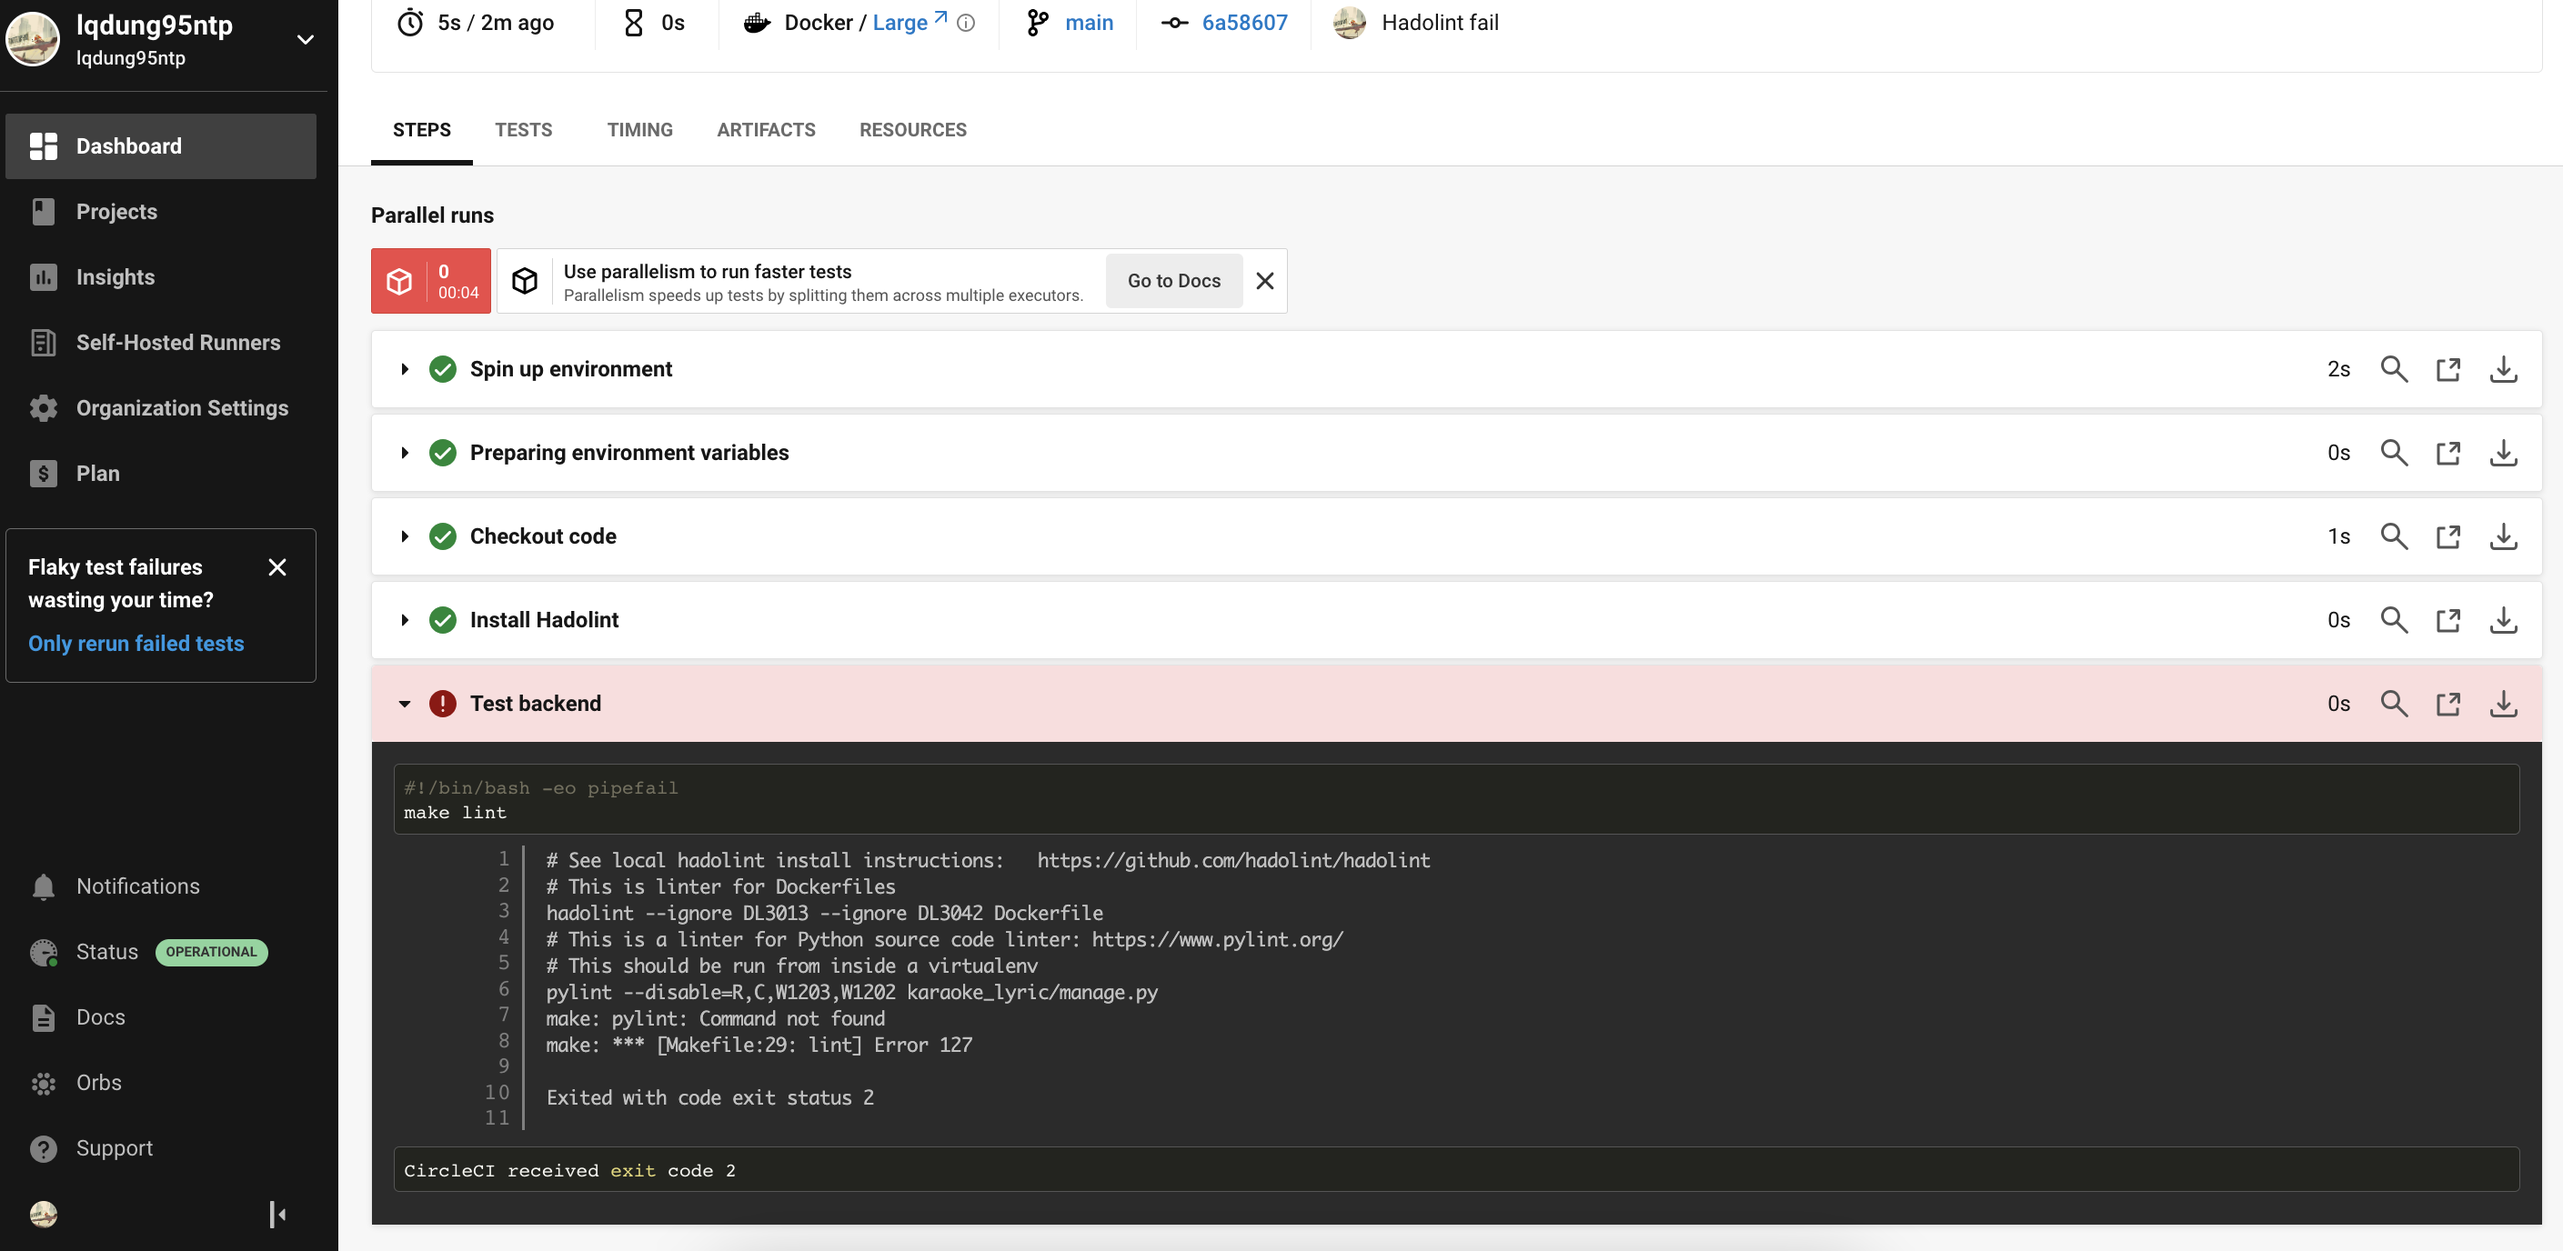
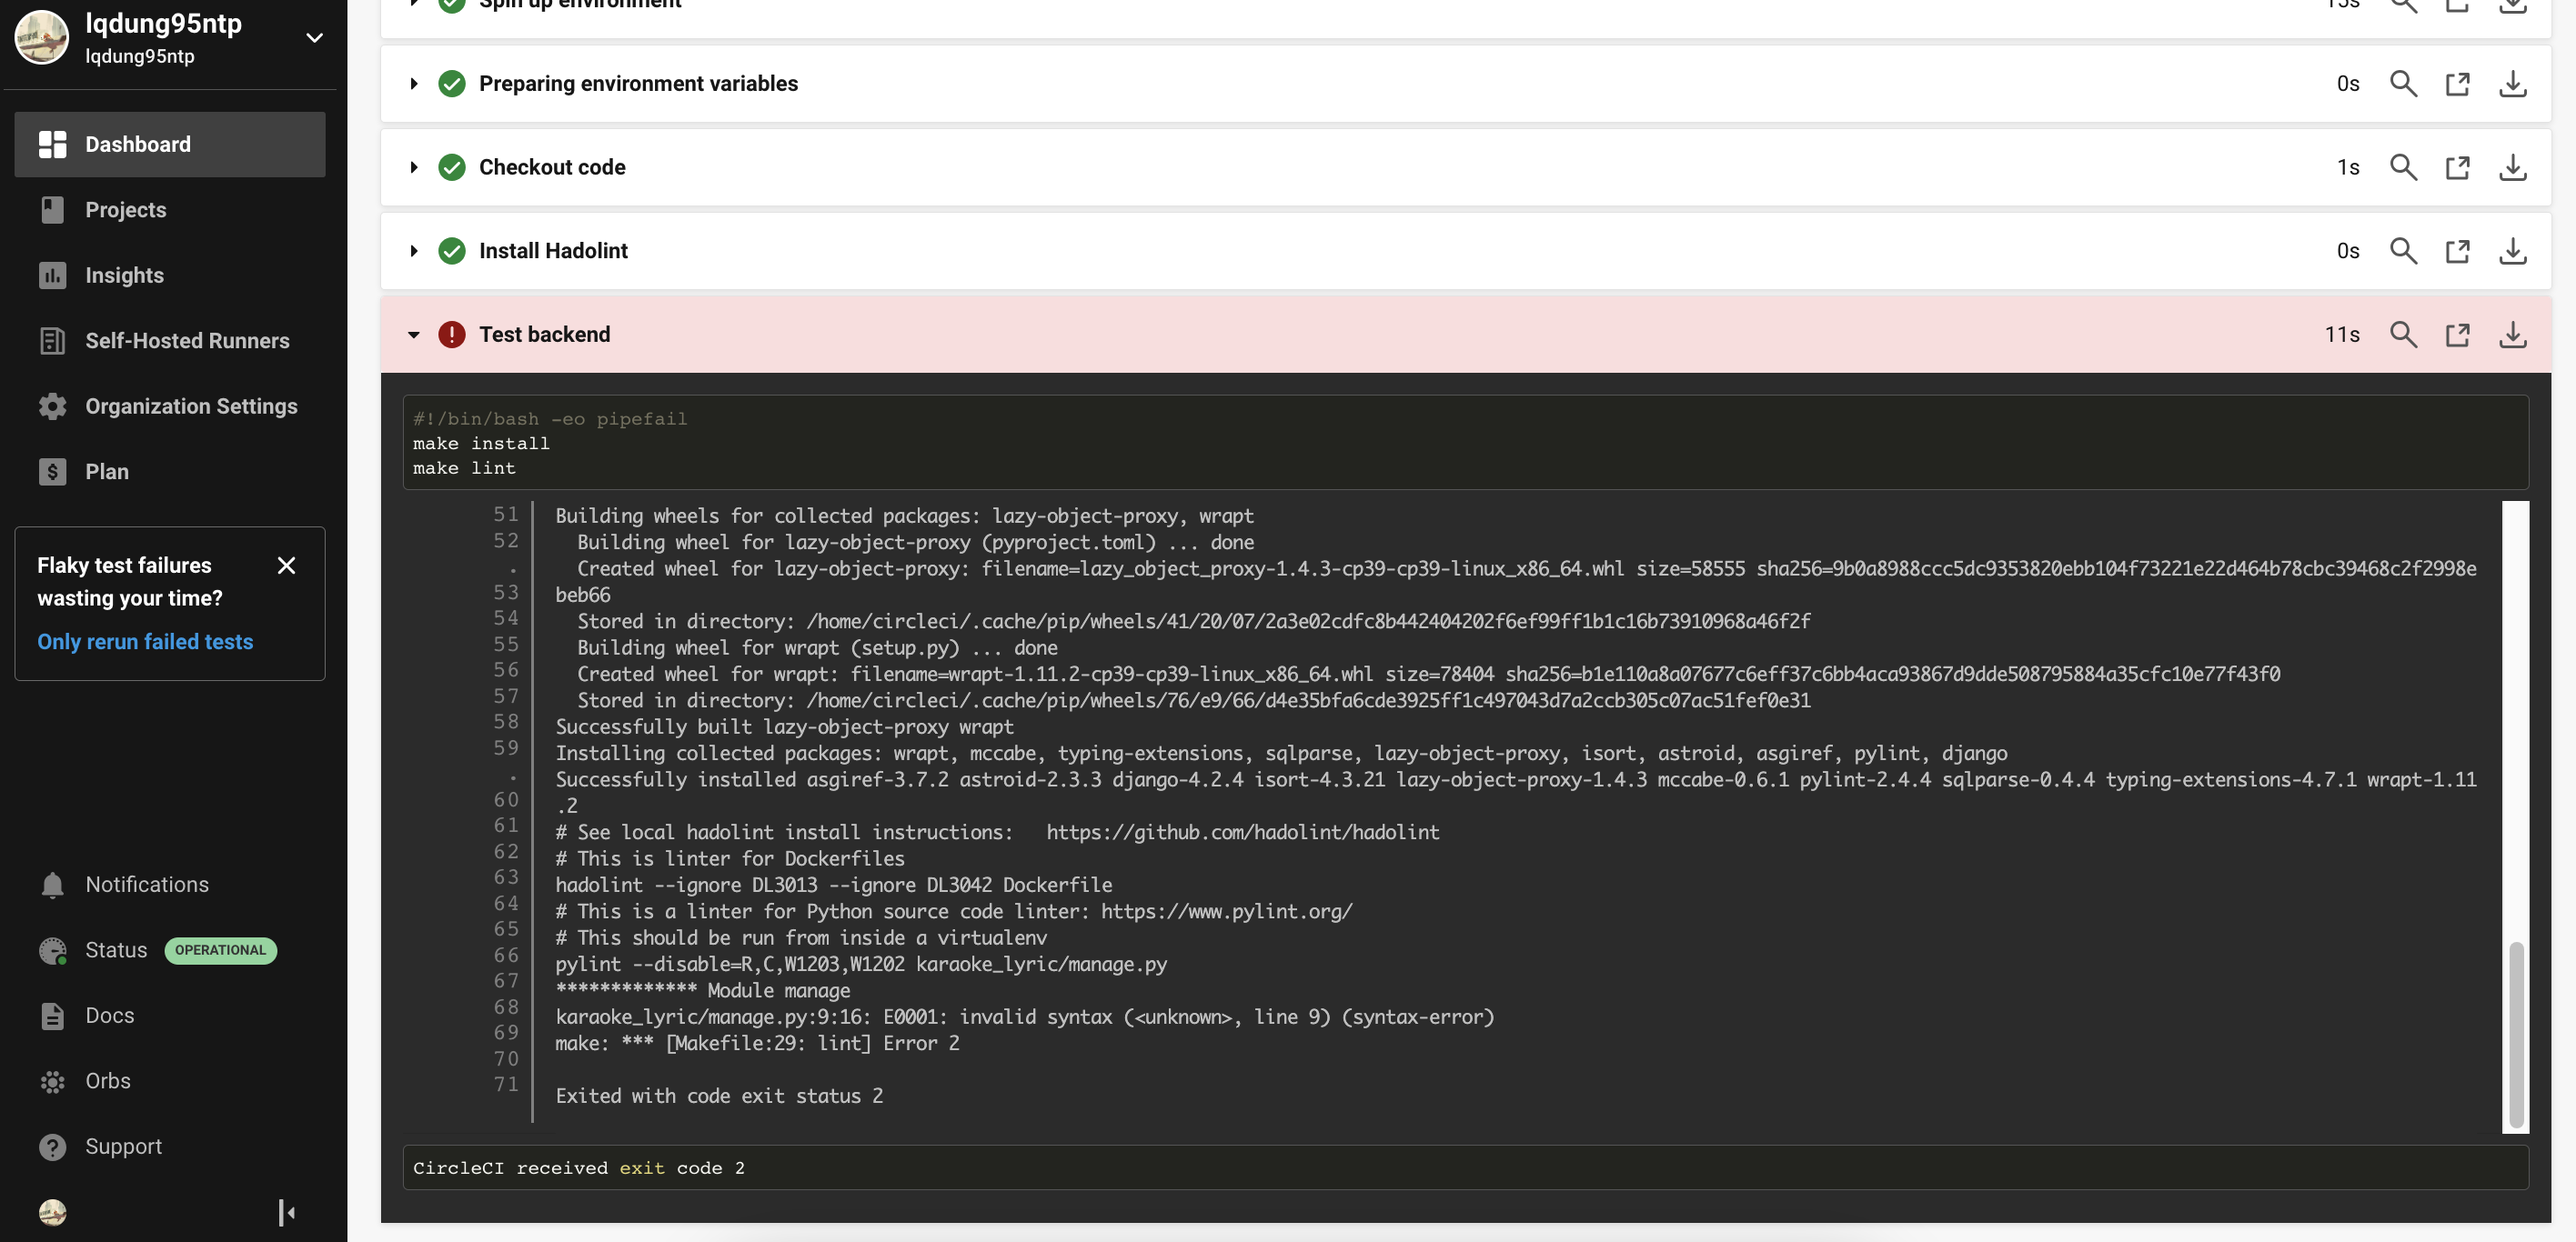
Hadolint Success

diff --git a/karaoke_lyric/manage.py b/karaoke_lyric/manage.py
@@ -6,8 +6,7 @@ import sys
 
 def main():
     """Run administrative tasks."""
-    os.environ.
-    setdefault('DJANGO_SETTINGS_MODULE', 'karaoke_lyric.settings')
+    os.environ.setdefault('DJANGO_SETTINGS_MODULE', 'karaoke_lyric.settings')
     try:
         from django.core.management import execute_from_command_line
     except ImportError as exc:
